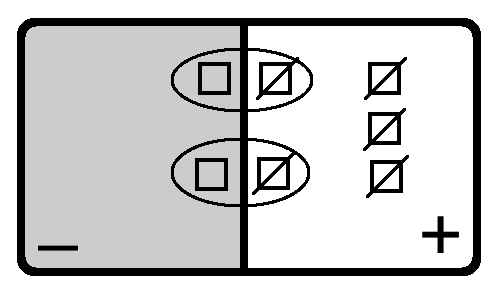
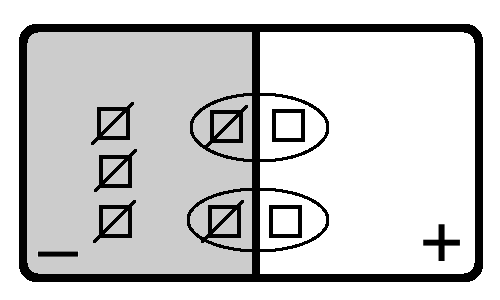
updated quizzes 1.2 and 1.3

diff --git a/secondary-ed/Math7/wholenumbers-integers/ints-sub-quiz.html b/secondary-ed/Math7/wholenumbers-integers/ints-sub-quiz.html
@@ -34,7 +34,7 @@
 </header>
 <p class="directions">Use a No. 2 Pencil. Show all work. No calculator!</p>
 <form autocomplete="off">
-	<p class="directions">#1&ndash;3: <span class="verb">Draw</span> a representation of each sum, using the specified model.</p>
+	<p class="directions">#1&ndash;4: <span class="verb">Draw</span> a representation of each difference, using the specified model.</p>
 	<ol class="problemset">
 		<li class="free-response-text">
 			<p>Show that <span class="latex">\(6-{^-}8=14\)</span>, using a Chip Model.</p>
@@ -61,7 +61,7 @@
 			</label>
 		</li>
 	</ol>
-	<p class="directions">#5&ndash;6: <span class="verb">Write</span> a difference that is represented by the following diagrams. Then <span class="verb">evaluate</span> the difference.</p>
+	<p class="directions">#5&ndash;6: <span class="verb">Write</span> a difference that is represented by each of the following diagrams. Then <span class="verb">evaluate</span> the difference.</p>
 	<ol class="problemset" start="5">
 		<li class="free-response-text">
 			<img style="width: 250px; height: 150px;" src="images/chip2.png" alt="a Chip Model diagram representing a difference. There are 10 light chips on the mat, and 3 of those chips are crossed out."/>
@@ -70,13 +70,13 @@
 			</label>
 		</li>
 		<li class="free-response-text">
-			<img style="width: 250px; height: 150px;" src="images/block2.png" alt="a Block Model diagram representing a difference. On the dark side of the mat, there are 2 blocks. There are also three pairs of blocks, each containing one block on the dark side and one block on the light side. Each pair is circled. Then, the three blocks on the light side are crossed out."/>
+			<img style="width: 250px; height: 150px;" src="images/block2.png" alt="a Block Model diagram representing a difference. On the dark side of the mat, there are 2 blocks. There are also two pairs of blocks, each containing 1 block on the dark side and 1 block on the light side. Each pair is circled. Then, all 5 blocks on the dark side are crossed out."/>
 			<label class="right">
 				<input id="q6" type="text"/>
 			</label>
 		</li>
 	</ol>
-	<p class="directions">#7&ndash;10: <span class="verb">Evaluate</span> the following differences, using either a Chip model, Block model, or Number Line model. Show all work.</p>
+	<p class="directions">#7&ndash;10: <span class="verb">Evaluate</span> the following differences. Show all work.</p>
 	<ol class="problemset" start="7">
 		<li class="free-response-number">
 			<span class="latex">\(-9-{^-}1\)</span>

diff --git a/secondary-ed/Math7/wholenumbers-integers/ints-add-quiz.html b/secondary-ed/Math7/wholenumbers-integers/ints-add-quiz.html
@@ -55,7 +55,7 @@
 			</label>
 		</li>
 	</ol>
-	<p class="directions">#4&ndash;6: <span class="verb">Write</span> a sum that is represented by the following diagrams. Then <span class="verb">evaluate</span> the sum.</p>
+	<p class="directions">#4&ndash;6: <span class="verb">Write</span> a sum that is represented by each of the following diagrams. Then <span class="verb">evaluate</span> the sum.</p>
 	<ol class="problemset" start="4">
 		<li class="free-response-text">
 			<img style="width: 250px; height: 150px;" src="images/chip1.png" alt="a Chip Model diagram representing a sum. On the mat, there are 7 dark counters and 3 light counters."/>
@@ -76,7 +76,7 @@
 			</label>
 		</li>
 	</ol>
-	<p class="directions">#7&ndash;10: <span class="verb">Evaluate</span> the following sums, using either a Chip model, Block model, or Number Line model. Show all work.</p>
+	<p class="directions">#7&ndash;10: <span class="verb">Evaluate</span> the following sums. Show all work.</p>
 	<ol class="problemset" start="7">
 		<li class="free-response-number">
 			<span class="latex">\(-15+8\)</span>
